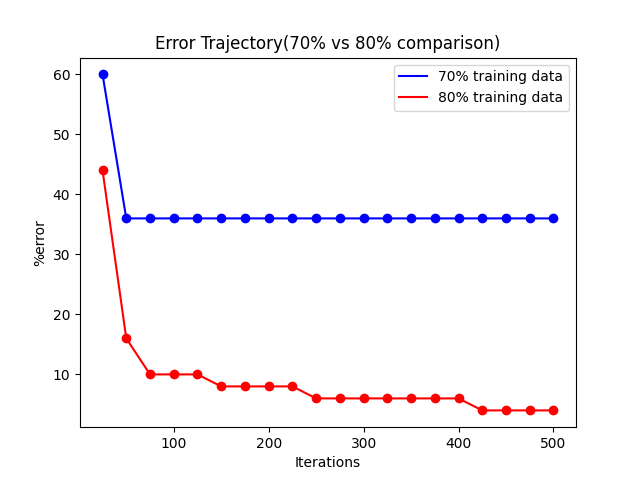
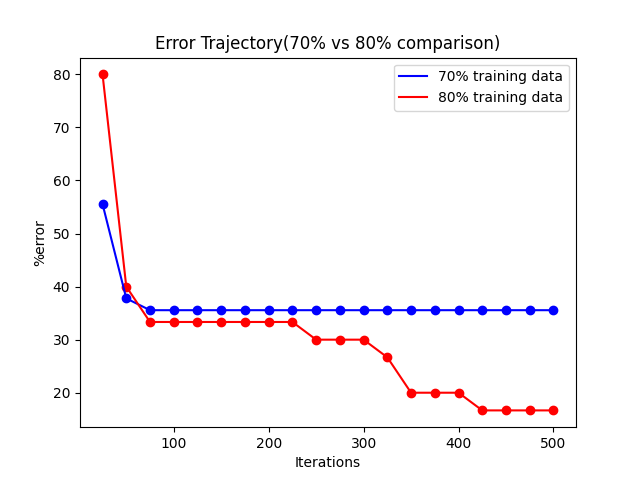
includes plots

diff --git a/lr.py b/lr.py
@@ -70,7 +70,7 @@ def comp_grad3(alpha1,alpha2,alpha3,training):# computes the gradient wrt alpha3
         term2 = term2 - (temp_input/(np.exp(e1-e3)+np.exp(e2-e3)+1))
     return (term1 + term2)
 
-# this code is for just computing, storing and plotting the error against the iterations in the graient descent algorithm
+# this code runs the logistic regression and plots the error trajectory
 err1 = []
 full_order = np.random.permutation(150)
 training = []
@@ -87,7 +87,7 @@ alpha2 = np.random.rand(1,5)
 alpha3 = np.random.rand(1,5)
 #alpha3 = np.array([1,1,1,1,1])
 learn = 25
-#Now we are doing the gradient descent
+#Now we are doing the gradient descent and upadating the weights
 for i in range(500):
 
     np.random.shuffle(training)
@@ -97,7 +97,7 @@ for i in range(500):
     alpha1 = np.copy(temp_alpha1)
     alpha2 = np.copy(temp_alpha2)
     alpha3 = np.copy(temp_alpha3)
-# now we compute the error afte revery 25 updates of the weights using gradient descent
+# now we compute the error after every 25 gradient descent updates of the weights
     if i%25 == 0:
         error = 0
         for i in testing:
@@ -108,7 +108,9 @@ for i in range(500):
                 #print(np.argmax(output))
                 error = error + 1
         err1.append(2*error)
-print(alpha1,alpha2,alpha3)
+print('Alpha1: ',alpha1)
+print('Alpha2: ',alpha2)
+print('Alpha3: ',alpha3)
 # this is for plotting the graph
 x_list = []
 for i in range(1, 501):
@@ -120,17 +122,16 @@ plt.xlabel("Iterations")
 plt.ylabel("%error")
 plt.title("Error Trajectory(100 training data points)")
 plt.show()
-#print(100*(1 - error/50))
-#print(100*(1 - error/50))
-# the below code is for comparing the error trajectories using 70% and 80% training sets
+
 '''
+# the below code is for comparing the error trajectories using 70% and 80% training sets
 err1 = []
 full_order = np.random.permutation(150)
 training = []
 testing = []
-for f in range(105):# using 100 data points for training
+for f in range(105):# using 70% data points for training
     training.append(full_order[f])
-for g in range(105,150):# using 50 data points for testing
+for g in range(105,150):# using 30% data points for testing
     testing.append(full_order[g])
 #initialising the weights
 alpha1 = np.random.rand(1,5)
@@ -150,7 +151,7 @@ for i in range(500):
     alpha1 = np.copy(temp_alpha1)
     alpha2 = np.copy(temp_alpha2)
     alpha3 = np.copy(temp_alpha3)
-# now we compute the error afte revery 25 updates of the weights using gradient descent
+# now we compute the error after every 25 updates of the weights using gradient descent
     if i%25 == 0:
         error = 0
         for i in testing:
@@ -160,16 +161,16 @@ for i in range(500):
             if np.argmax(des) != np.argmax(output):
                 #print(np.argmax(output))
                 error = error + 1
-        err1.append(2*error)
+        err1.append(2.222*error)
 
 
 err2 = []
 full_order = np.random.permutation(150)
 training = []
 testing = []
-for f in range(120):# using 100 data points for training
+for f in range(120):# using 80% data points for training
     training.append(full_order[f])
-for g in range(120,150):# using 50 data points for testing
+for g in range(120,150):# using 20% data points for testing
     testing.append(full_order[g])
 #initialising the weights
 alpha1 = np.random.rand(1,5)
@@ -189,7 +190,7 @@ for i in range(500):
     alpha1 = np.copy(temp_alpha1)
     alpha2 = np.copy(temp_alpha2)
     alpha3 = np.copy(temp_alpha3)
-# now we compute the error afte revery 25 updates of the weights using gradient descent
+# now we compute the error after every 25 updates of the weights using gradient descent
     if i%25 == 0:
         error = 0
         for i in testing:
@@ -199,7 +200,7 @@ for i in range(500):
             if np.argmax(des) != np.argmax(output):
                 #print(np.argmax(output))
                 error = error + 1
-        err2.append(2*error)
+        err2.append(3.333*error)
 
 # this is for plotting the graph
 x_list = []
@@ -215,5 +216,4 @@ plt.ylabel("%error")
 plt.title("Error Trajectory(70% vs 80% comparison)")
 plt.legend()
 plt.show()
-#print(100*(1 - error/50))
 '''
